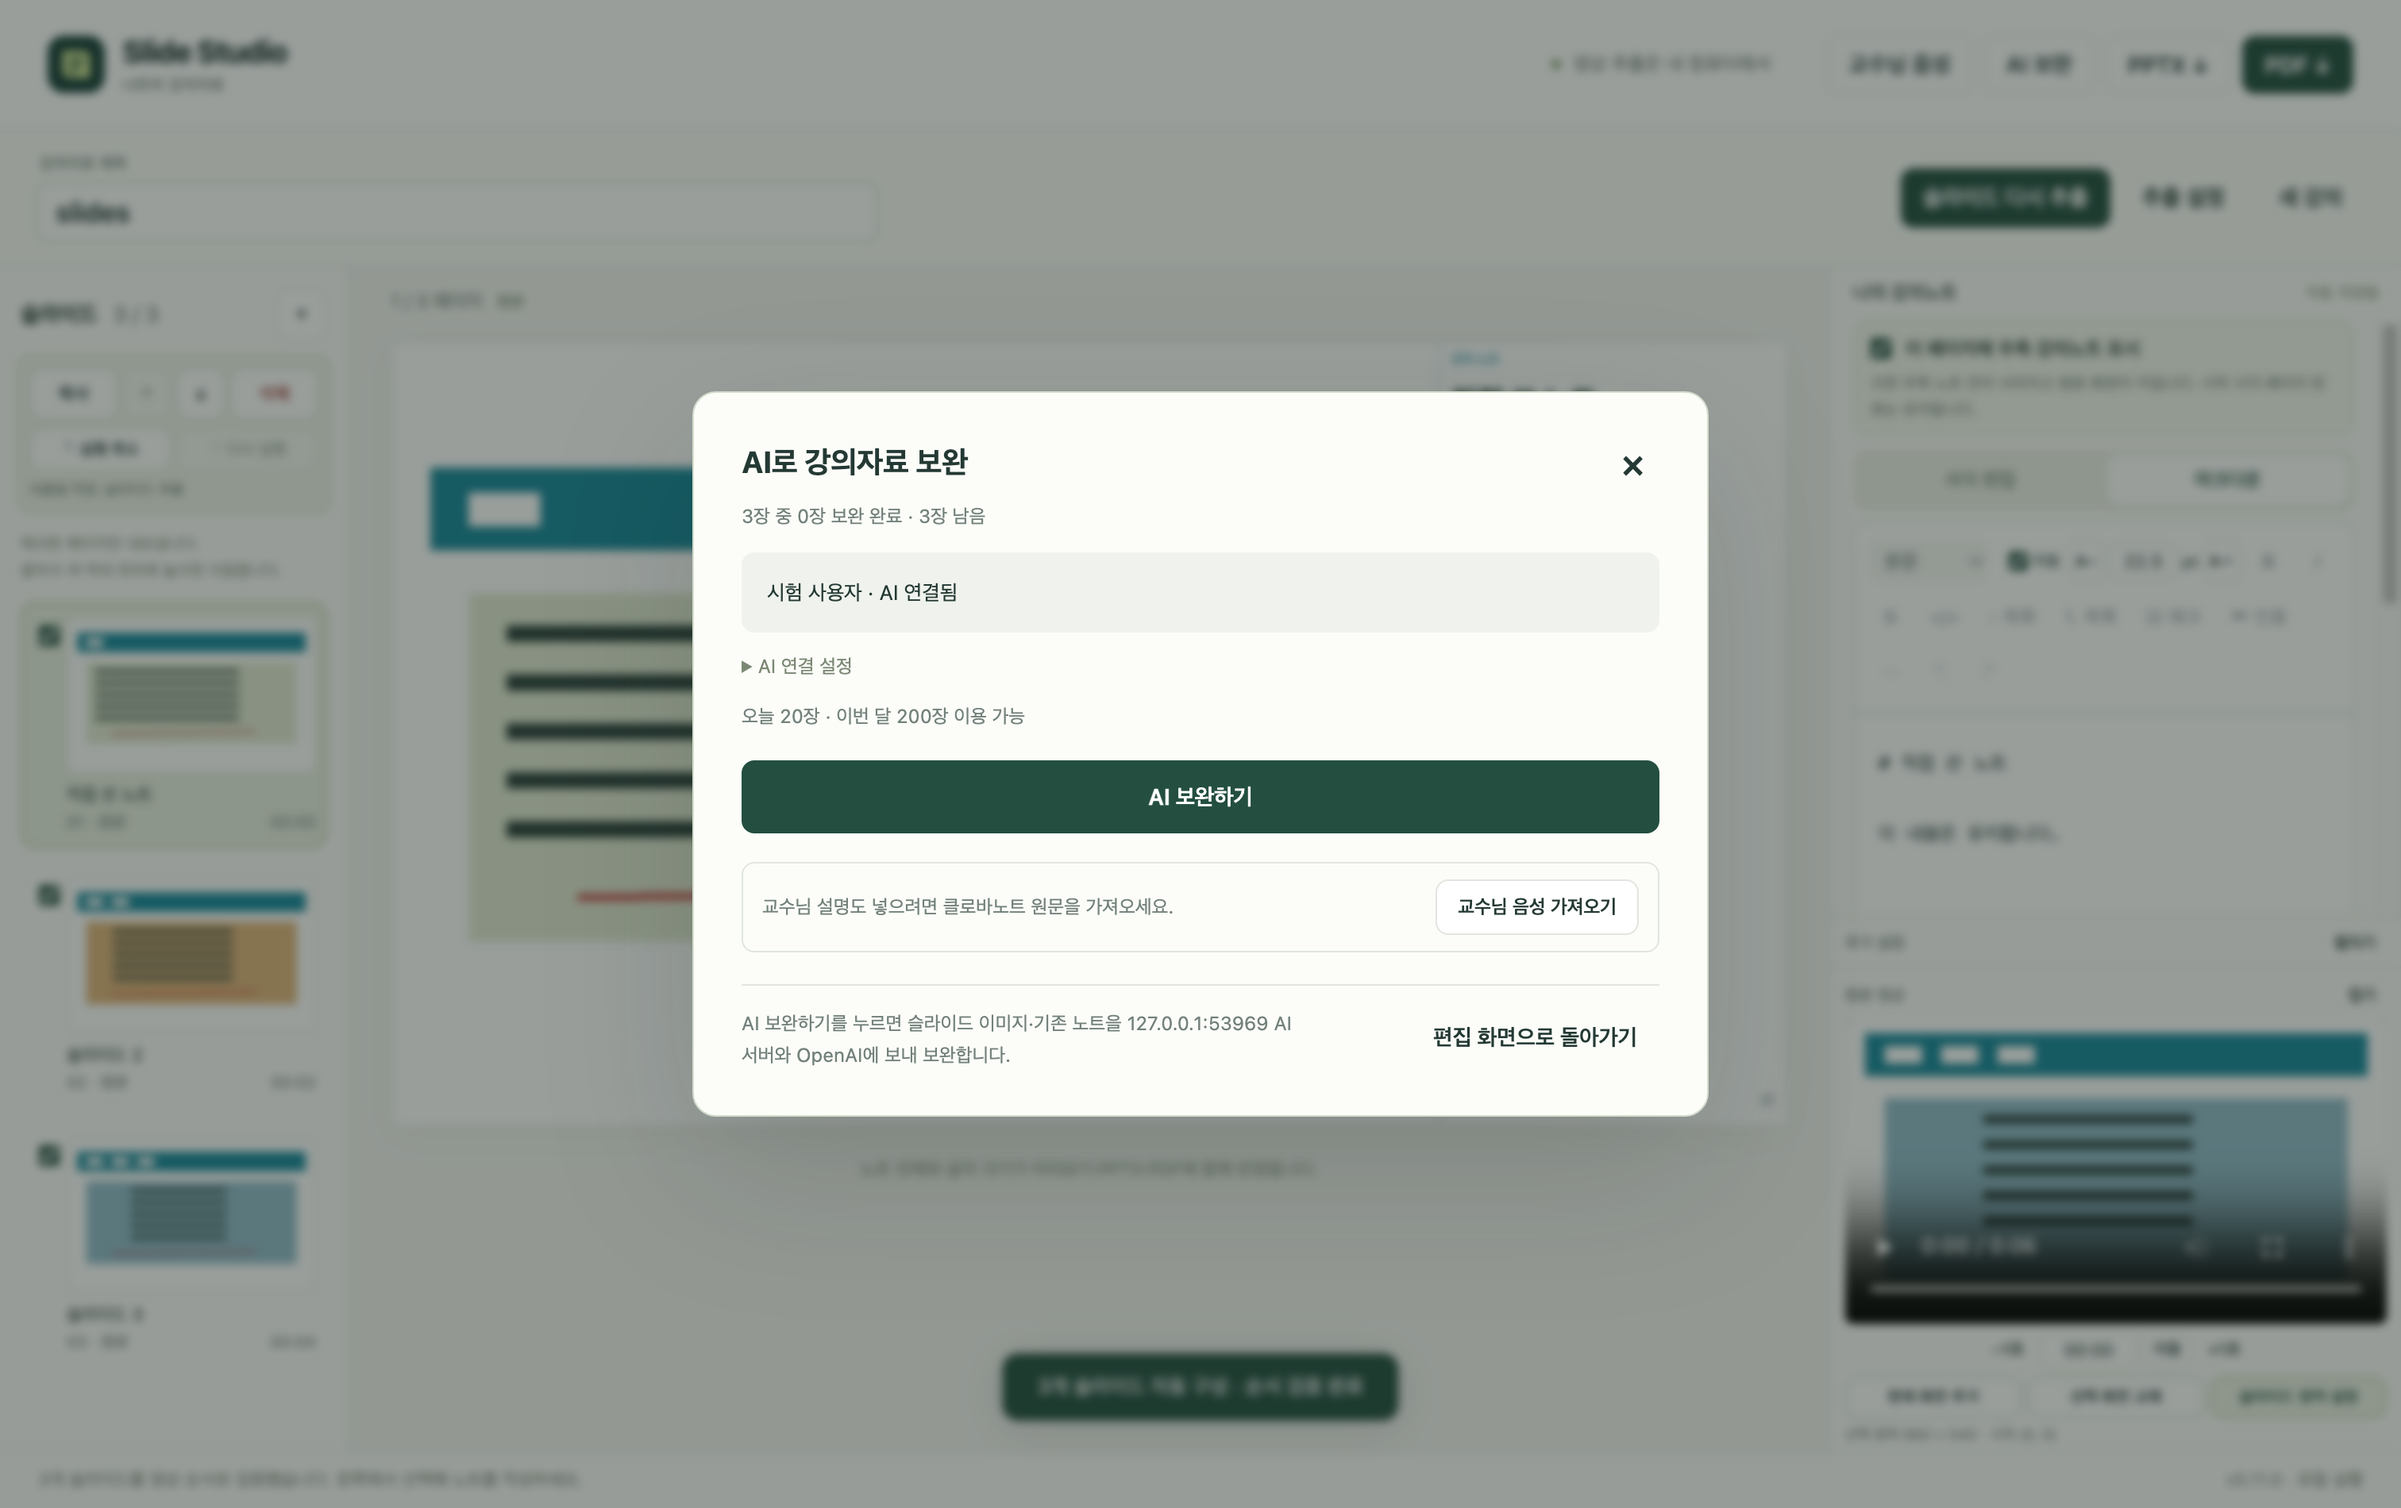
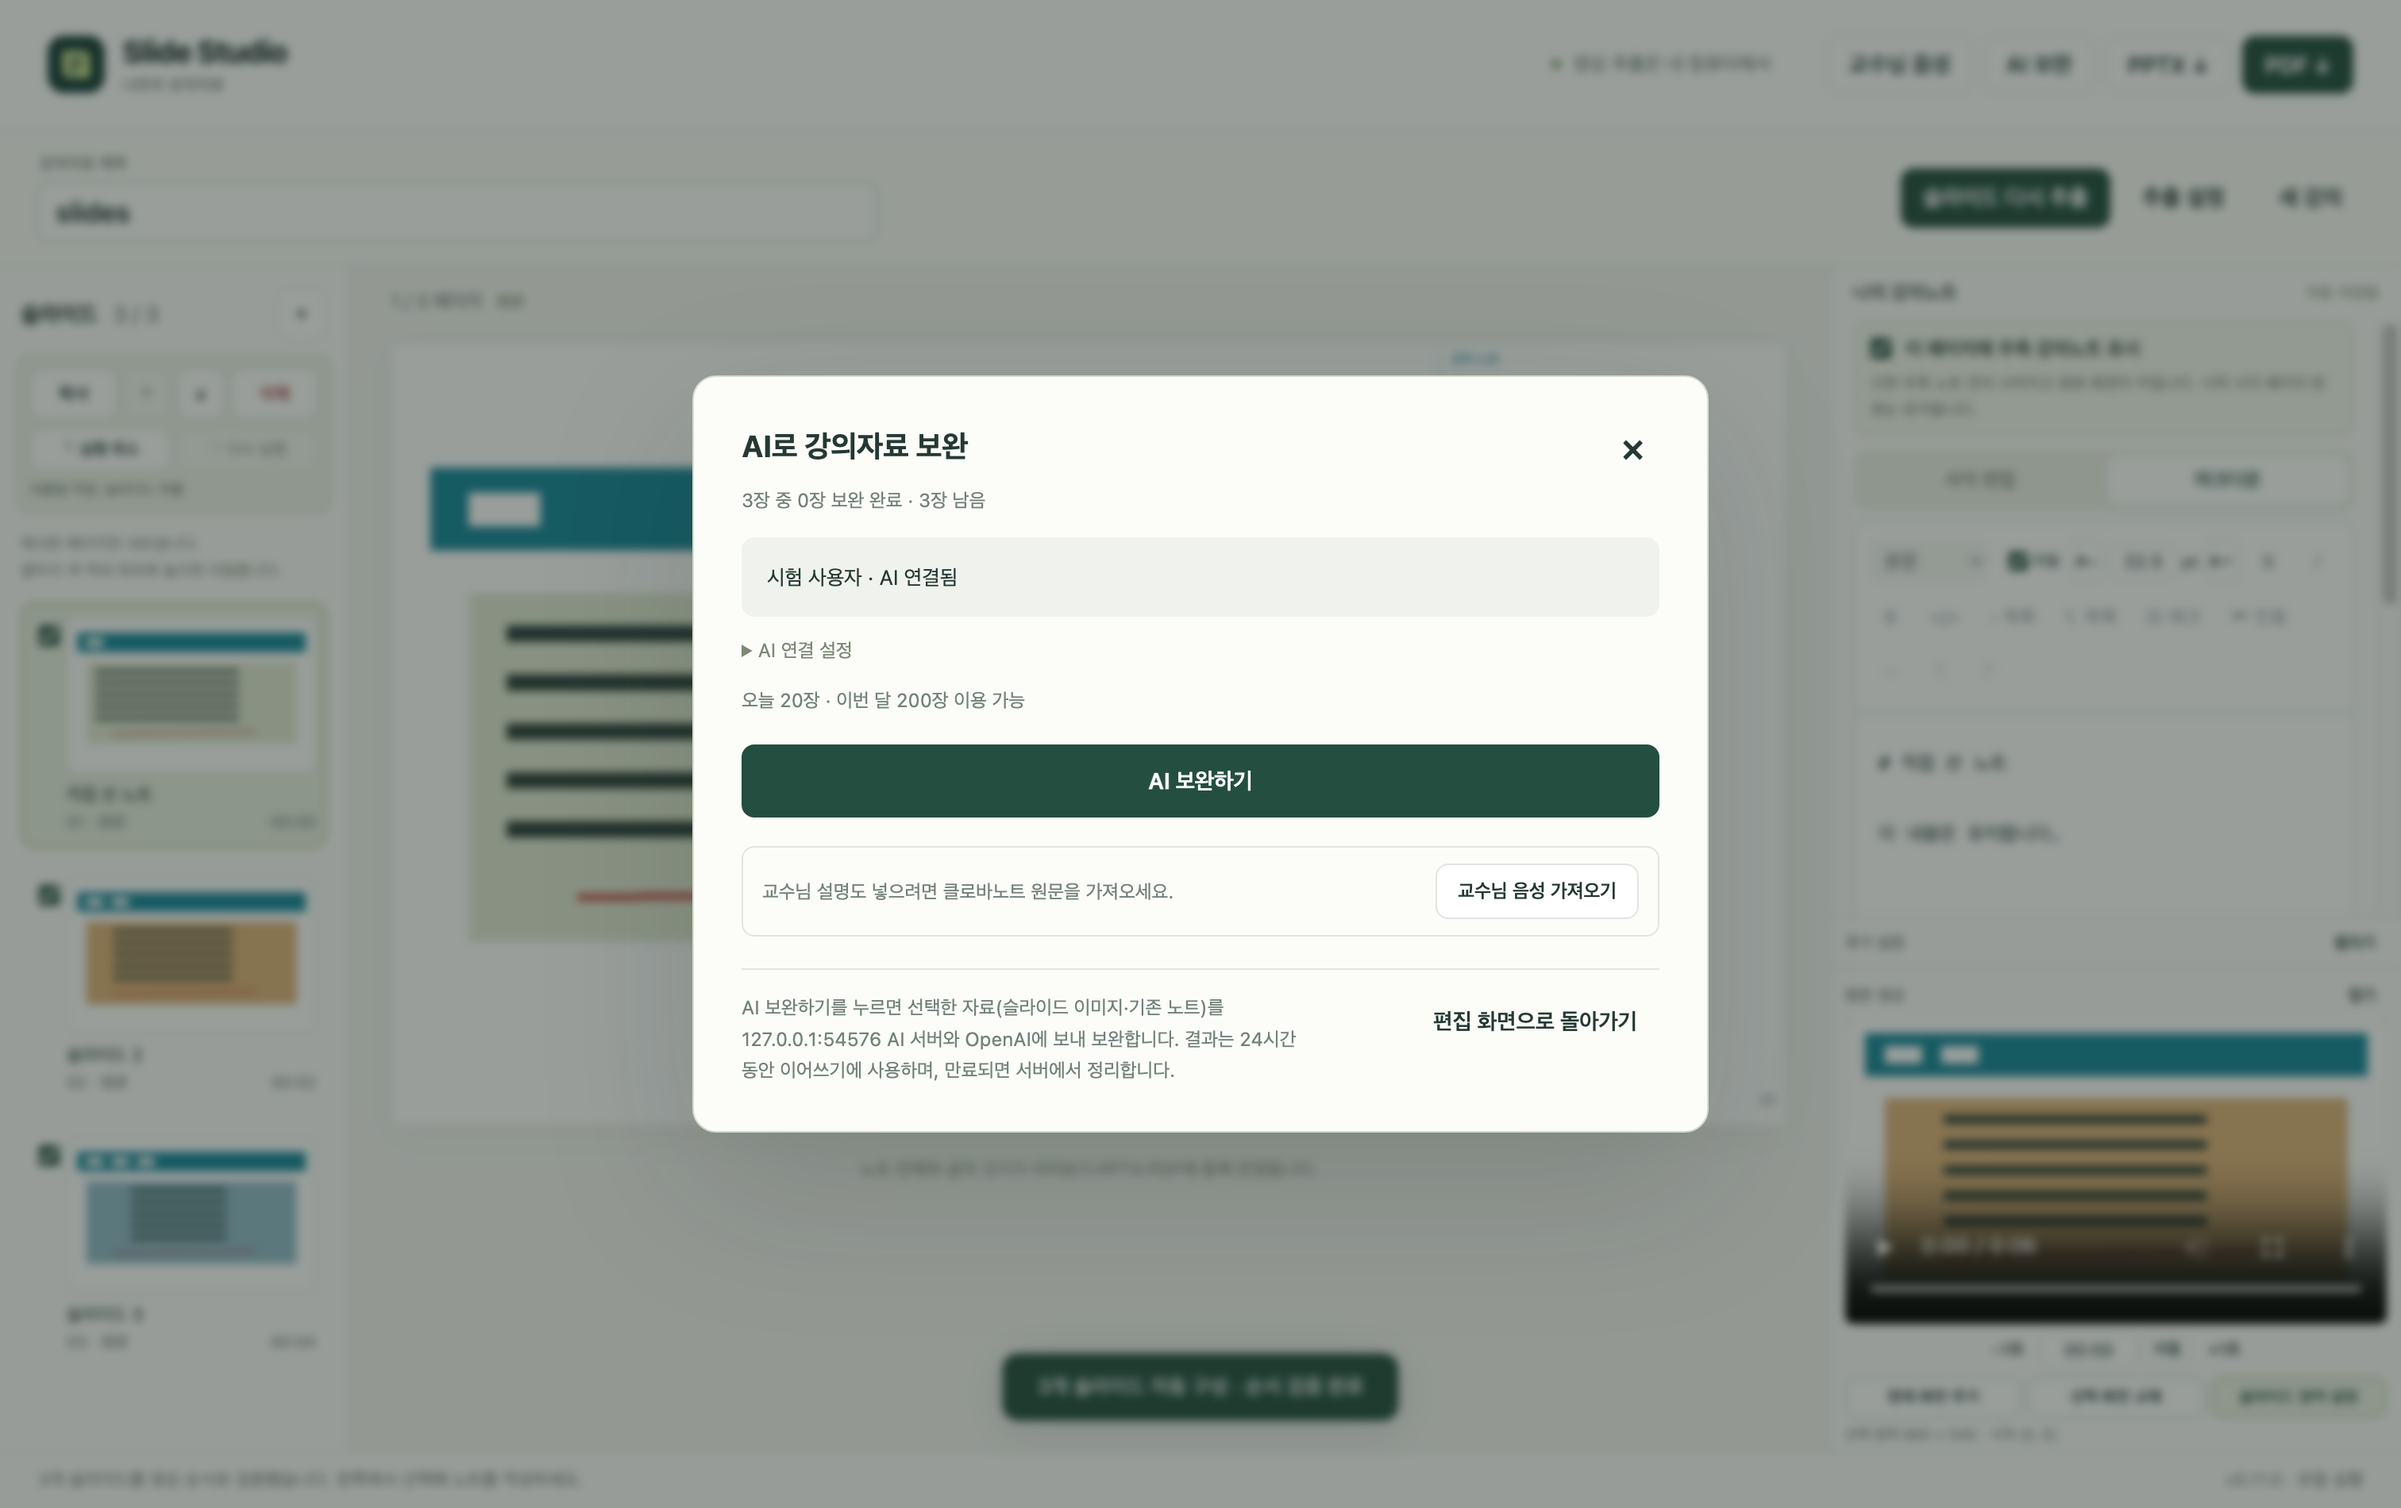
Keep AI connections responsive during keychain access

diff --git a/RELEASE_NOTES.md b/RELEASE_NOTES.md
@@ -7,6 +7,7 @@ Windows와 macOS용 Slide Studio 설치 앱입니다. 강의 영상에서 슬라
 - **한 번 연결하고 바로 보완:** 처음 받은 초대 코드를 연결하면 이후에는 **AI 보완하기** 한 번으로 노트와 필요한 보충 설명을 추가합니다. ChatGPT 로그인·모델 선택·무료 계정 복사 메뉴를 제거합니다.
 - **클로바노트 원문 함께 활용:** 이미지·기존 노트와 해당 슬라이드 시간대 음성 기록을 함께 전송합니다. MP4·MP3는 AI 서버에 전송하지 않습니다.
 - **운영자 API 키 보호:** API 키는 운영자 서버에만 두며, 설치 앱과 GitHub에 포함하지 않습니다. 사용자 연결 정보는 운영체제 저장소로 암호화합니다.
+- **Mac 연결 화면 응답 유지:** 운영체제 암호 저장소에 비동기로 접근합니다. 잠금·권한 확인 때문에 앱 전체가 멈추는 처리를 피하고, 일시적인 잠금 후 재시도와 암호화 키 교체를 지원합니다.
 - **중복 호출 방지:** 요청을 보내기 전에 자동 저장하고, 취소·인터넷 단절·앱 재실행 후에도 같은 요청 결과를 이어받습니다. 결과는 24시간 동안 다시 가져올 수 있습니다. 만료되거나 결과가 불확실한 경우 자동 재호출을 멈춥니다.
 - **이용 한도:** 초대 코드 만료·폐기와 사용자별·전체 일간/월간 슬라이드 한도를 서버에서 적용합니다. 한도에 걸리면 완료한 노트는 유지합니다. 실제 월 $30 지출 한도는 운영자가 전용 OpenAI 프로젝트에서 별도로 설정합니다.
 - **맥미니에서 운영:** Node.js 24 이상에서 실행하는 서버와 시작 파일·설정 예시를 추가합니다. 연구실 서버용 Docker 구성도 제공합니다. 외부 사용자는 별도의 HTTPS 주소 연결이 필요합니다.

diff --git a/README.md b/README.md
@@ -20,6 +20,8 @@
 
 현재 배포본은 정식 개발자 인증서 서명과 Apple 공증을 받지 않았습니다. 첫 실행 확인이나 차단이 표시될 수 있습니다. Mac은 [Apple의 확인 방법](https://support.apple.com/ko-kr/102445)을 참고하세요. 소스 코드 ZIP은 설치 파일이 아닙니다.
 
+Mac 개발판에서 AI를 연결하거나 업데이트하면 연결 정보 암호화를 위해 키체인 접근 확인이 표시될 수 있습니다. 본인이 설치한 Slide Studio인지 확인해 macOS 창에서 응답하세요. 암호화 처리는 비동기로 실행하며, 저장소가 일시적으로 잠긴 경우 연결 정보를 지우지 않고 다시 시도할 수 있습니다. [Electron의 키체인·코드 서명 안내](https://www.electronjs.org/docs/latest/api/safe-storage)
+
 ## 편집 화면
 
 ![실제 보충 설명 썸네일, 강의노트 툴바와 우측 하단 원본 영상](docs/images/editor.png)
